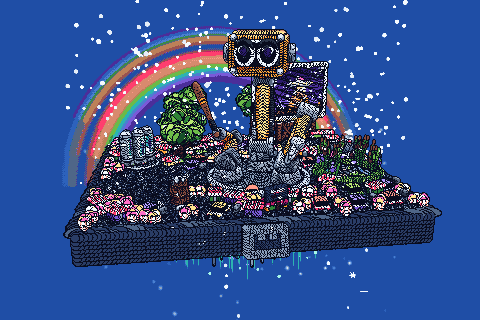
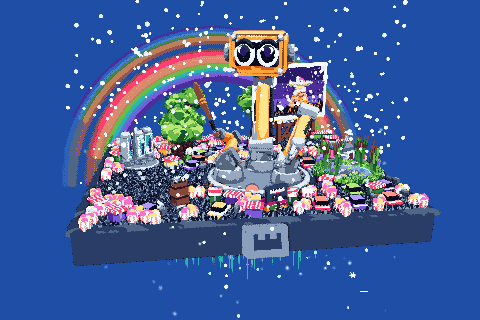
Splats: an outline only where a scene asks

Changed region(s): [[0.125, 0.0938, 0.9375, 0.8438]]

diff --git a/platform/assets/js/splats/painter.ts b/platform/assets/js/splats/painter.ts
@@ -489,9 +489,9 @@ fn nearest(c: vec3f) -> vec3f {
   }
   colour *= 1.0 - SHADE_STRENGTH * min(1.0, shut / 4.0);
 
-  // 3. The outline, where depth steps.
+  // 3. The outline, where depth steps; a scene whose edge is 0 has none.
   let step = max(2.0 * depth - depthAt(x - 1, y) - depthAt(x + 1, y), 2.0 * depth - depthAt(x, y - 1) - depthAt(x, y + 1));
-  if (step > OUTLINE_EDGE / (2.0 * RADIUS)) {
+  if (OUTLINE_EDGE > 0.0 && step > OUTLINE_EDGE / (2.0 * RADIUS)) {
     return vec4f(paletteColour(OUTLINE_INDEX), 1.0);
   }
 

diff --git a/platform/assets/js/splats/studio/FORMAT.md b/platform/assets/js/splats/studio/FORMAT.md
@@ -278,7 +278,7 @@ Reads outside the grid take the nearest pixel inside it. For the art pixel (x, y
    (x + round(glassBend gx), y + round(glassBend gy)).
 2. Contact shade: for the eight neighbours at (±2, 0), (0, ±2) and (±1, ±1), let δ = (D(x, y) − D(neighbour)) / (shadeRange / 2R); each
    with 0.08 < δ < 3 adds min(1, δ) to an occlusion o. C ← C (1 − shadeStrength min(1, o / 4)).
-3. Outline: if max(2D(x,y) − D(x−1,y) − D(x+1,y), 2D(x,y) − D(x,y−1) − D(x,y+1)) > outlineEdge / 2R, the pixel is
+3. Outline, only when outlineEdge > 0: if max(2D(x,y) − D(x−1,y) − D(x+1,y), 2D(x,y) − D(x,y−1) − D(x,y+1)) > outlineEdge / 2R, the pixel is
    `palette[outlineIndex]`, and step 4 is skipped.
 4. Dither: with the 4 x 4 table B = 0 8 2 10 / 12 4 14 6 / 3 11 1 9 / 15 7 13 5 (rows by y mod 4, columns by x mod 4, y counted from
    the bottom), add (B + 0.5)/16 − 0.5 times 0.105 dither to each channel, then clamp each to 0 to 1. (0.105 = 0.35 x 0.3, the

diff --git a/CHANGELOG.md b/CHANGELOG.md
@@ -13671,3 +13671,12 @@ For the template chief to release. No migration. No new package.
   gives its device back, what runs without WebGPU, when the recovery count resets, when
   the motion lab is public). Nobody has yet followed `references/checks.md` end to end.
 - No release: nothing the site serves changed.
+
+## 2026-11-22 — Splats: an outline only where a scene asks
+
+- `platform/assets/js/splats/painter.ts` draws the outline only when the scene's
+  `outlineEdge` is above 0, as the format's finish step 3 and the `splat-scenes` skill's
+  player do; `platform/assets/js/splats/studio/FORMAT.md` says so. Black Slab and Dice
+  Owl are the two files with `outlineEdge` 0: they are drawn without an outline, and
+  their eight pictures are redrawn by `npm run stills:splats`. No other scene's picture
+  changed.

diff --git a/platform/priv/public/changelog.md b/platform/priv/public/changelog.md
@@ -2,6 +2,11 @@
 
 Changes to Ash Template, newest first.
 
+## 22 November 2026
+
+- **Splats.** Black Slab and Dice Owl are drawn cleanly, without the dark speckle that
+  covered them.
+
 ## 21 November 2026
 
 - **Splats.** A new world, Museum: a chalet museum on a floating island over a mountain
